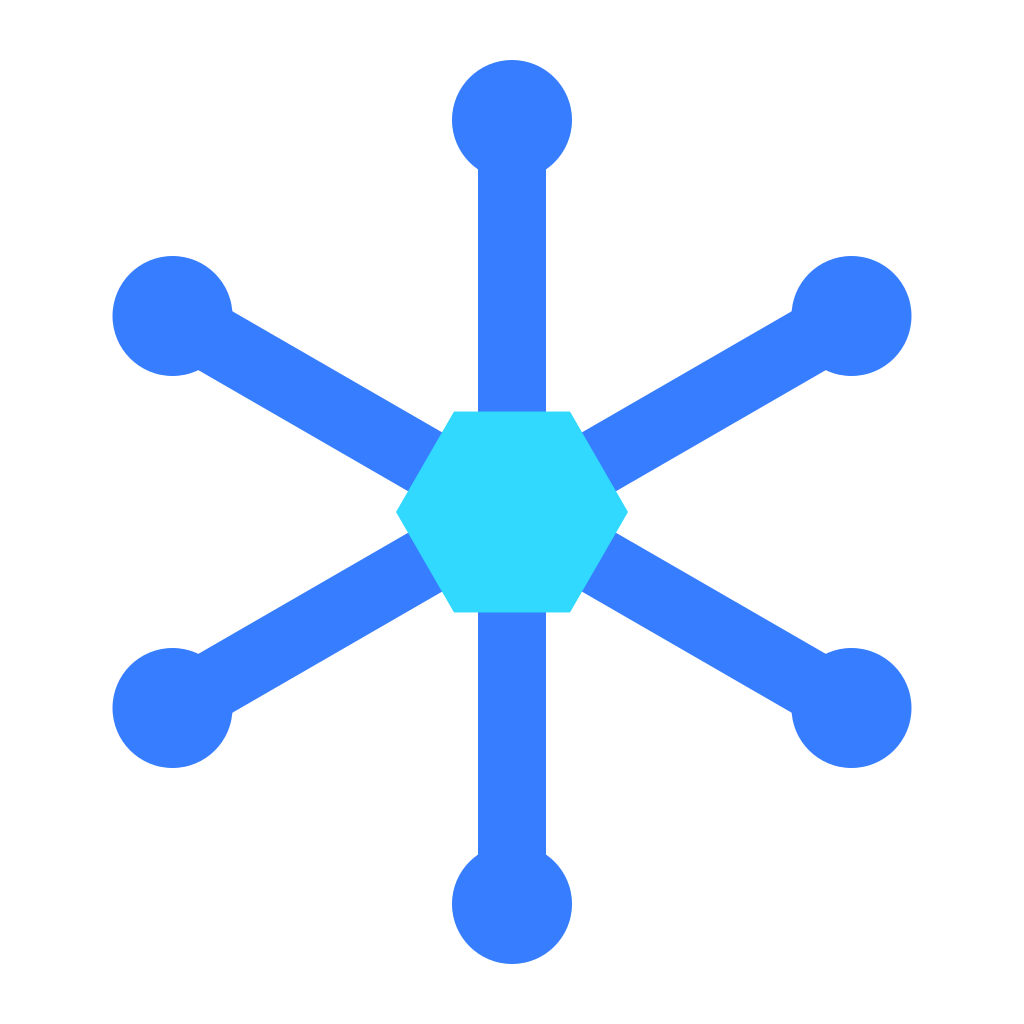
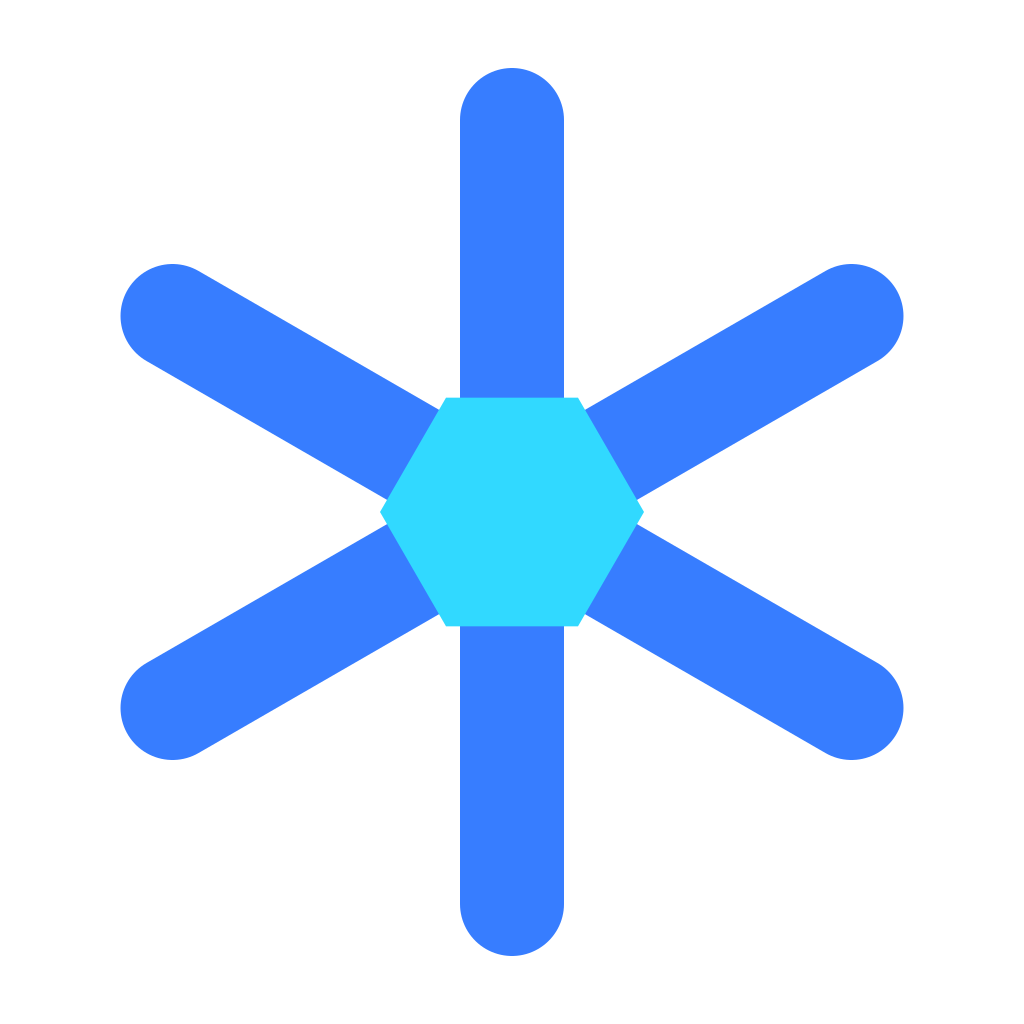
design(site): draw the mark with two shapes instead of thirteen (#212)
The silhouette is unchanged; the construction is not. Three lines
through a centre already are six spokes, and a round cap already is a
tip, so the six-point crystal costs one stroked path and one core rather
than six spokes, six leaf circles and a core.

The leaf circles were the part that did not survive being small. They
sat at r=30 against a 34-unit stroke, so every spoke was a thin stem
with a bulb on the end -- a proportion that reads at 512px and turns
lumpy by 24px. Removing them freed the weight budget: the stroke goes
34 -> 52, which is 3.25 device pixels in the favicon rather than 2.13,
and the share of fully-opaque pixels at 16px goes 22% -> 41%.

Weight was chosen by measuring both sides of the form -- ink crispness
and whether the gaps between spokes stay open -- across 40 to 64 units.
The gaps hold throughout, so the ceiling was set by the core: at 58 and
above the spokes approach its width and it stops reading as a node.

The shape ceiling in tests/test_site_mark.py drops 20 -> 4. Twenty was a
round number the thirteen-shape drawing already passed.

diff --git a/tests/test_site_mark.py b/tests/test_site_mark.py
@@ -1,9 +1,9 @@
 """The brand mark stays legible where it is actually used.
 
-The mark this replaced was a 1254px PNG from an image model: about forty
-facets and thirteen scattered nodes, with no vector source, so it could be
-re-prompted but not edited. Two things were wrong with it and neither was
-visible in the file itself.
+The mark these tests were written for was a 1254px PNG from an image model:
+about forty facets and thirteen scattered nodes, with no vector source, so it
+could be re-prompted but not edited. Two things were wrong with it and neither
+was visible in the file itself.
 
 Its dominant colour was a dark navy, `#022759`, measuring **1.36:1** against
 the `#040a13` navigation the site puts the mark on. The largest part of the
@@ -60,6 +60,10 @@ CONTRAST_EXCEPTIONS = {
 MINIMUM_FAVICON_PIXELS = 2.0
 VIEWBOX = 512
 FAVICON = 32
+
+# The drawing is a stroked path and the core it crosses on. Room for one more
+# is room to add a shape deliberately; it is not room to drift.
+MOST_SHAPES = 4
 
 
 def relative_luminance(rgb):
@@ -177,13 +181,16 @@ class SiteMarkTest(unittest.TestCase):
                 self.assertIn(colour, tokens, "not a token in site/styles.css")
 
     def test_the_mark_stays_something_a_reader_can_take_in(self):
-        # Not a measure of beauty — a ceiling on element count. The mark this
-        # replaced had roughly forty facets, which is what made it a picture
-        # rather than a mark and what made it dissolve at favicon size.
+        # Not a measure of beauty — a ceiling on element count. The mark two
+        # revisions ago had roughly forty facets, which is what made it a
+        # picture rather than a mark and what made it dissolve at favicon
+        # size. The drawing is two shapes; the ceiling is set just above that
+        # rather than at a round number, because a limit of twenty would not
+        # notice the drift back until it had already happened.
         shapes = len(
             re.findall(r"<(path|circle|polygon|rect|line|ellipse)\b", self.svg)
         )
-        self.assertLessEqual(shapes, 20, "the mark is drifting back to a picture")
+        self.assertLessEqual(shapes, MOST_SHAPES, "the mark is drifting back to a picture")
 
 
 if __name__ == "__main__":

diff --git a/site/README.md b/site/README.md
@@ -27,14 +27,16 @@ Edit the SVG, run `python3 scripts/render_mark.py`, commit the lot.
 `--check` renders to memory and compares instead of writing, so a change to
 the SVG that was never rendered cannot land looking applied.
 
-It is a six-point ice crystal that also reads as a dependency graph: one root,
-six edges, a node at every leaf. Three things about it are not taste, and
-`tests/test_site_mark.py` asserts each rather than trusting the eye — nothing
-may be thinner than the favicon can draw, nothing may fall below 3:1 against
-either the site's dark navigation or a light theme, and every colour must
-already be a token in `styles.css`.
+It is a six-point ice crystal, drawn as three lines crossing at the centre and
+the core they cross on. Three lines through a centre already are six spokes,
+and a round cap already is a tip, so the whole mark is two elements. Four
+things about it are not taste, and `tests/test_site_mark.py` asserts each
+rather than trusting the eye — nothing may be thinner than the favicon can
+draw, nothing may fall below 3:1 against either the site's dark navigation or
+a light theme, every colour must already be a token in `styles.css`, and the
+drawing may not grow past four shapes.
 
-The mark this replaced was a 1254 px PNG from an image model, with no vector
+The mark this began as was a 1254 px PNG from an image model, with no vector
 source: it could be re-prompted but not edited, and the smaller sizes were
 downscales of a picture rather than renderings of a drawing. It had two faults
 that the file itself could not show. Its dominant colour was a dark navy
